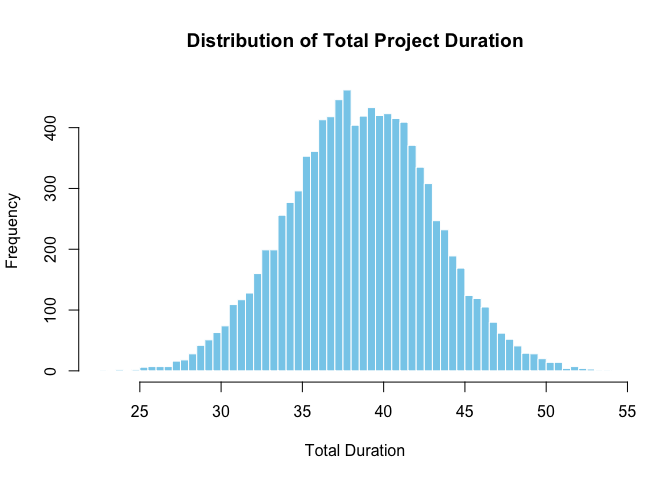
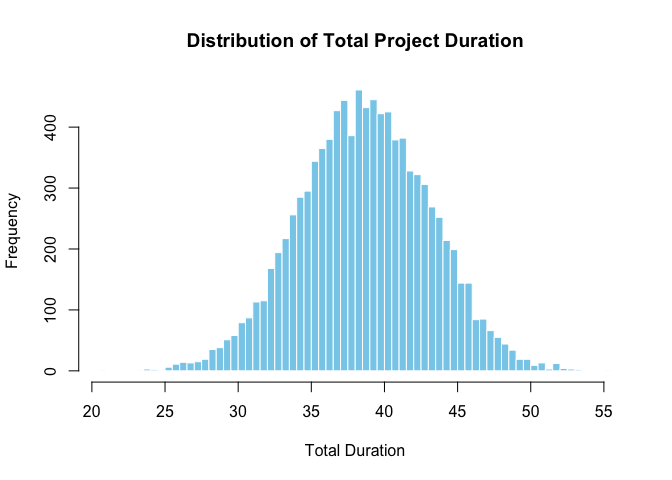
Update docs

diff --git a/README.md b/README.md
@@ -20,7 +20,7 @@ checks](https://badges.cranchecks.info/summary/PRA.svg)](https://cran.r-project.
 [![](https://img.shields.io/badge/doi-10.32614/CRAN.package.eAnalytics-green.svg)](https://doi.org/10.32614/CRAN.package.PRA)
 <!-- badges: end -->
 
-Data analysis for Project Risk Management via:
+Data analysis for Project Risk Management in R:
 
 - Second Moment Method
 - Monte Carlo Simulation
@@ -29,11 +29,11 @@ Data analysis for Project Risk Management via:
 - Earned Value Management
 - Learning Curves
 - Design Structure Matrices
-- And more.
+- And more!
 
 ## Installation
 
-To install the release verion of PRA, use:
+To install the release verion of PRA in R, use:
 
 ``` r
 install_packages('PRA')
@@ -88,14 +88,14 @@ To calculate the mean of the total duration:
 
 ``` r
 cat("Mean Total Duration:", results$total_mean, "\n")
-#> Mean Total Duration: 38.59119
+#> Mean Total Duration: 38.63244
 ```
 
 To calculate the variance of the total duration:
 
 ``` r
 cat("Variance of Total Duration:", results$total_variance, "\n")
-#> Variance of Total Duration: 19.23919
+#> Variance of Total Duration: 19.81996
 ```
 
 To build a histogram of the total duration:
